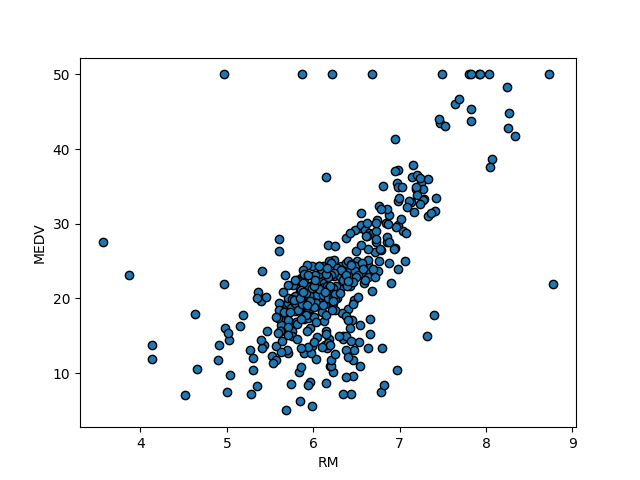
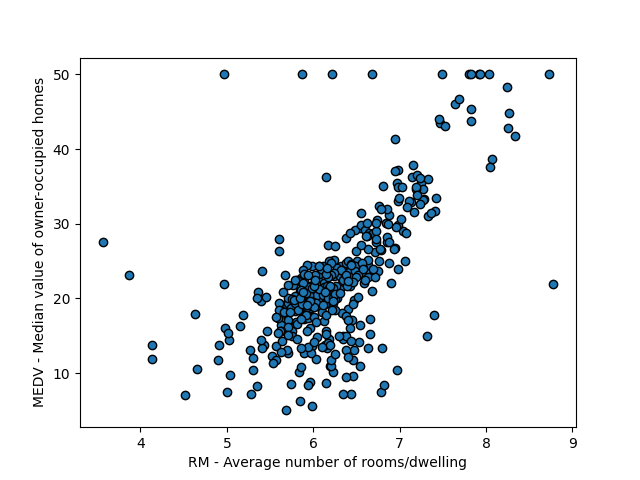
update 22_05_04

Changed region(s): [[0.0312, 0.1562, 0.0938, 0.8438], [0.2812, 0.9375, 0.7188, 1.0]]

diff --git a/Graphs/style.css b/Graphs/style.css
@@ -1,0 +1,126 @@
+body{
+    margin: auto 0;
+    font-family: Arial; /*mudar a fonte*/
+}
+
+h1{
+    background-color: #444;
+    color: #FFF;
+    padding: 10px;
+    margin: 0;
+}
+
+h3{
+    font-size: 30px;
+    margin-top: 20px;
+}
+
+main{
+    height: 100%;
+    width: 100%;
+}
+
+.zone {
+    cursor:pointer;
+    color:#FFF;
+    font-size:2em;
+    border-radius:4px;
+    border:1px solid #bbb;
+    transition: all 0.3s linear;
+}
+
+.zone:hover {
+    -webkit-box-shadow:rgba(0,0,0,0.8) 0px 5px 15px, inset rgba(0,0,0,0.15) 0px -10px 20px;
+    -moz-box-shadow:rgba(0,0,0,0.8) 0px 5px 15px, inset rgba(0,0,0,0.15) 0px -10px 20px;
+    -o-box-shadow:rgba(0,0,0,0.8) 0px 5px 15px, inset rgba(0,0,0,0.15) 0px -10px 20px;
+    box-shadow:rgba(0,0,0,0.8) 0px 5px 15px, inset rgba(0,0,0,0.15) 0px -10px 20px;
+}
+
+.modal {
+    position: fixed;
+    top: 5vh;
+    z-index: 100;
+    background: white;
+    border-radius: 10px;
+    box-shadow: 0 2px 8px rgba(0, 0, 0, 0.26);
+    animation: float-in 0.3s ease-out forwards;
+    display: flex;
+    justify-content: center;
+    flex-direction:row;
+    height: 80vh;
+    width: auto;
+}
+
+.modal img {
+    margin: auto;
+    padding: 0rem;
+    width: auto;
+    height: 100%;
+}
+
+#backdrop {
+    position: fixed;
+    z-index: 10;
+    width: 100%;
+    height: 100vh;
+    left: 0;
+    top: 0;
+    background: rgba(0, 0, 0, 0.75);
+    display: none;
+    pointer-events: none;
+}
+
+#backdrop.visible {
+    display: block;
+    pointer-events: all;
+}
+
+/* Project Grid */
+
+.grid-wrapper{
+    display: grid;
+    color:#FFF;
+    font-size:1.0em;
+    border-radius:4px;
+    transition: all 0.3s linear;
+    grid-template-columns: repeat(auto-fill, minmax(400px, 1fr));
+    grid-gap: 20px;
+}
+
+.box > img{
+    width: 100%;
+}
+
+.box{
+    background-color: #444;
+    padding: 10px;
+    margin: 20px;
+}
+
+/***********************************************************************
+ *  Blue Background
+ **********************************************************************/
+.blue{
+    background: #4096ee;
+}
+
+@media (min-width: 768px) {
+    main {
+      flex-direction: row;
+    }
+  
+    section {
+      flex: 1;
+      margin: 0 2rem;
+    }
+  
+    .modal {
+        margin: auto;
+        display: flex;
+        justify-content: center;
+        justify-items: center;
+        justify-self: center;
+        left: calc(50% - 20rem);
+        width: 30rem;
+    }
+  }

diff --git a/Graphs/index.js b/Graphs/index.js
@@ -1,0 +1,37 @@
+const backdropElement = document.getElementById('backdrop');
+const modalLinkElements = document.querySelectorAll('.info-modal');
+console.log(modalLinkElements)
+let infoModal;
+
+function toggleBackdrop() {
+    backdropElement.classList.toggle('visible');
+}
+
+function presentInfoModal(event) {
+    const figure = event.target;
+    const figureSRC = figure.src;
+    console.log(figureSRC)
+    toggleBackdrop();
+    infoModal = document.createElement('div');
+    infoModal.classList.add('modal');
+    infoModal.innerHTML = `
+    <img alt="fig" src= ${figureSRC}></img>
+    `;
+
+    console.log(infoModal)
+    document.body.append(infoModal);
+    console.log(document.body)
+}
+
+
+function hideInfoModal() {
+    toggleBackdrop();
+    document.body.removeChild(infoModal);
+}
+
+for (const linkElement of modalLinkElements) {
+    linkElement.addEventListener('click', presentInfoModal);
+    console.log(linkElement)
+}
+
+backdropElement.addEventListener('click', hideInfoModal);

diff --git a/index.html b/index.html
@@ -1,0 +1,24 @@
+<!DOCTYPE html>
+<html>
+
+  <head>
+    <title>Project House Price</title>
+    <link rel="stylesheet" type="text/css" href="./Graphs/style.css">
+    <script type="text/javascript" src="./Graphs/index.js" defer></script>
+  </head>
+
+  <body class="blue">
+    <h1>House Price Model Plots</h1>
+    <div id="backdrop"></div>
+    <main class="blue grid-wrapper">
+      <div class="box zone zoom">
+        <h3>Training data visualization</h3>
+        <img  class = "info-modal" src="./Graphs/FIG_data_visualization_training.png">
+      </div>
+      <div class="box zone">
+        <h3>Difference between Mean Squared Error between training data and validation data</h3>
+        <img class = "info-modal" src="./Graphs/FIG_training_model.png">
+      </div>
+    </main>
+  </body>
+</html>

diff --git a/data_visualization.py b/data_visualization.py
@@ -3,14 +3,16 @@ import matplotlib.pyplot as plt
 from loading_data import LoadingData
 
 class DataVisualization(LoadingData):
-    def __init__(self, fileName, datasetPath):
+    def __init__(self, fileName, datasetPath, columns, fraction):
         super().__init__(fileName, datasetPath)
+        self.datasetLoading(columns)
+        self.splitDataset(fraction)
     
     def visualRepresentation(self, dataX, dataY): # Visual representation of training data
         fig, ax = plt.subplots()
         x = self.trainingData[dataX]
         y = self.trainingData[dataY]
         ax.scatter(x, y, edgecolors = (0, 0, 0))
-        ax.set_xlabel(dataX)
-        ax.set_ylabel(dataY)
+        ax.set_xlabel("RM - Average number of rooms/dwelling")
+        ax.set_ylabel("MEDV - Median value of owner-occupied homes")
         plt.show()

diff --git a/main.py b/main.py
@@ -1,4 +1,3 @@
-from training_model import TrainingModel
 
 dataset_path = "https://archive.ics.uci.edu/ml/machine-learning-databases/housing/housing.data"
 
@@ -6,6 +5,11 @@ fileName = "housing.data"
 
 columns_names = ['CRIM', 'ZN', 'INDUS', 'CHAS', 'NOX', 'RM', 'AGE', 'DIS', 'RAD', 'TAX', 'PTRATION', 'B', 'LSTAT', 'MEDV']
 
+# from data_visualization import DataVisualization
+# dataTraining = DataVisualization(fileName, dataset_path, columns_names, 0.8)
+# dataTraining.visualRepresentation('RM', 'MEDV')
+
+from training_model import TrainingModel
 testModel = TrainingModel(fileName, dataset_path, columns_names, 0.8, 'RM', 'MEDV')
 testModel.callBack()
 testModel.training()

diff --git a/modeling.py b/modeling.py
@@ -16,7 +16,7 @@ class Modeling:
                                             name = 'Adam') # Otimizer      
         self.model.compile(loss = 'mse', 
                     optimizer = optimizer, 
-                    metrics = ['mae','mse']) # Model copilation
+                    metrics = ['mae','mse']) # Model copile
         return self.model
 
     def plotModel (self): # Model Plot

diff --git a/training_model.py b/training_model.py
@@ -78,5 +78,6 @@ class TrainingModel(LoadingData, Modeling):
     def comparativePlot(self):
         sns.set(style = "whitegrid")
         sns.lineplot(data = self.dataframe, palette = "tab10", linewidth  = 2.5)
+        plt.ylabel("Mean Squared Error")
         plt.show()
 
